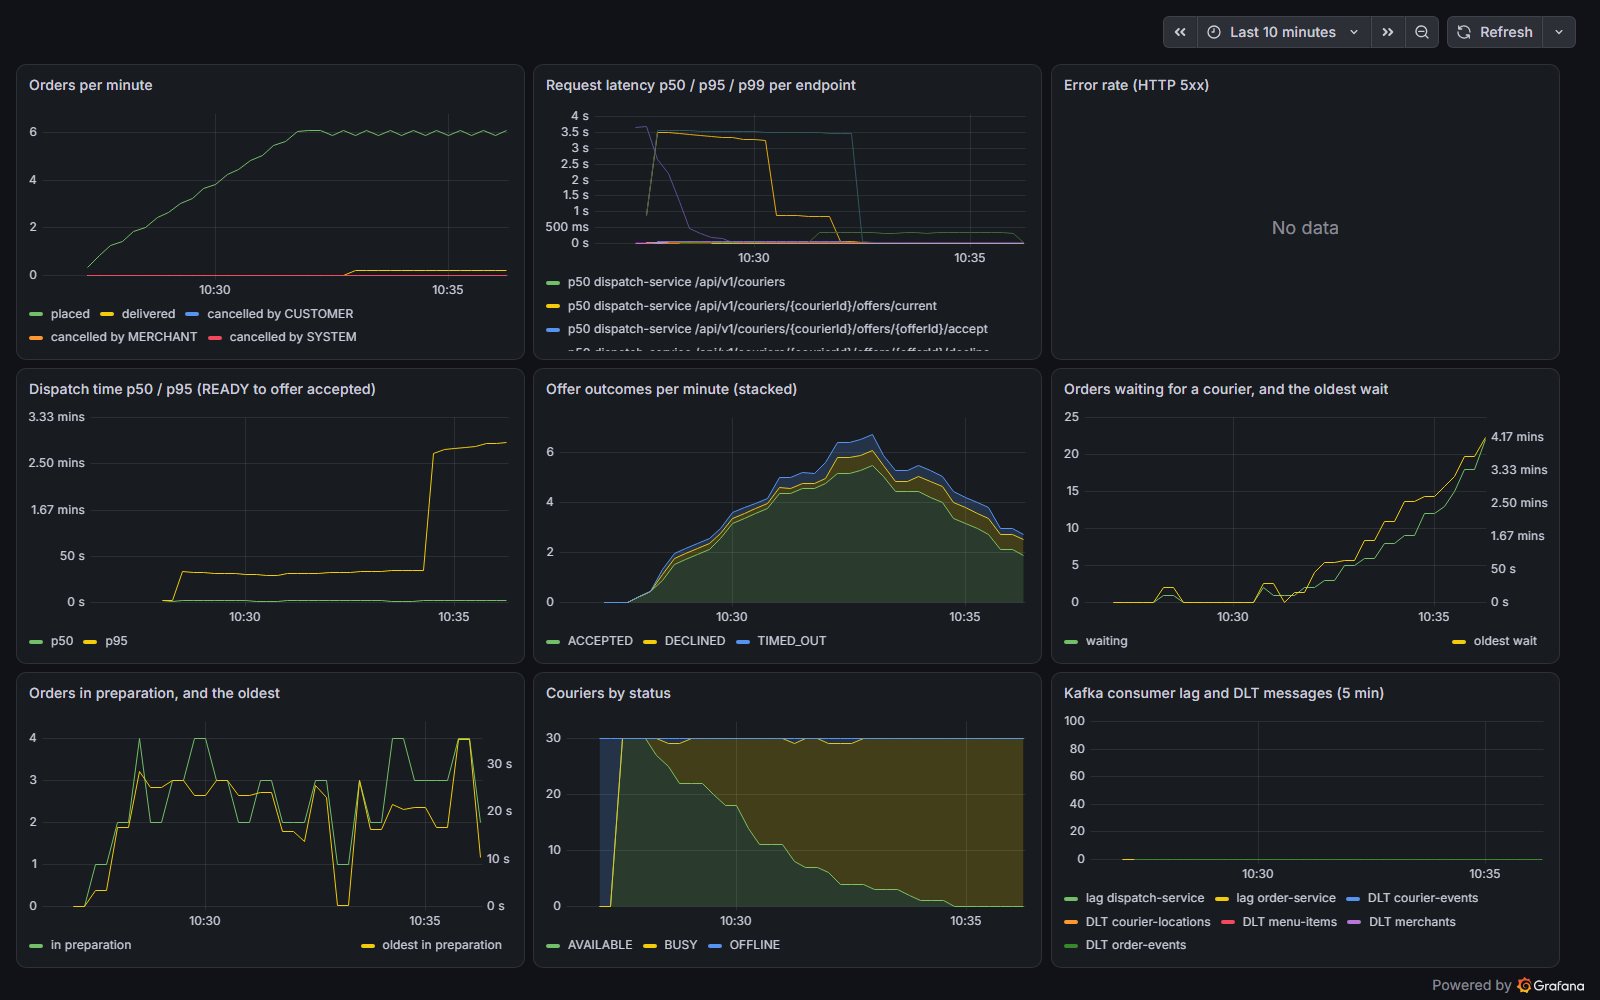
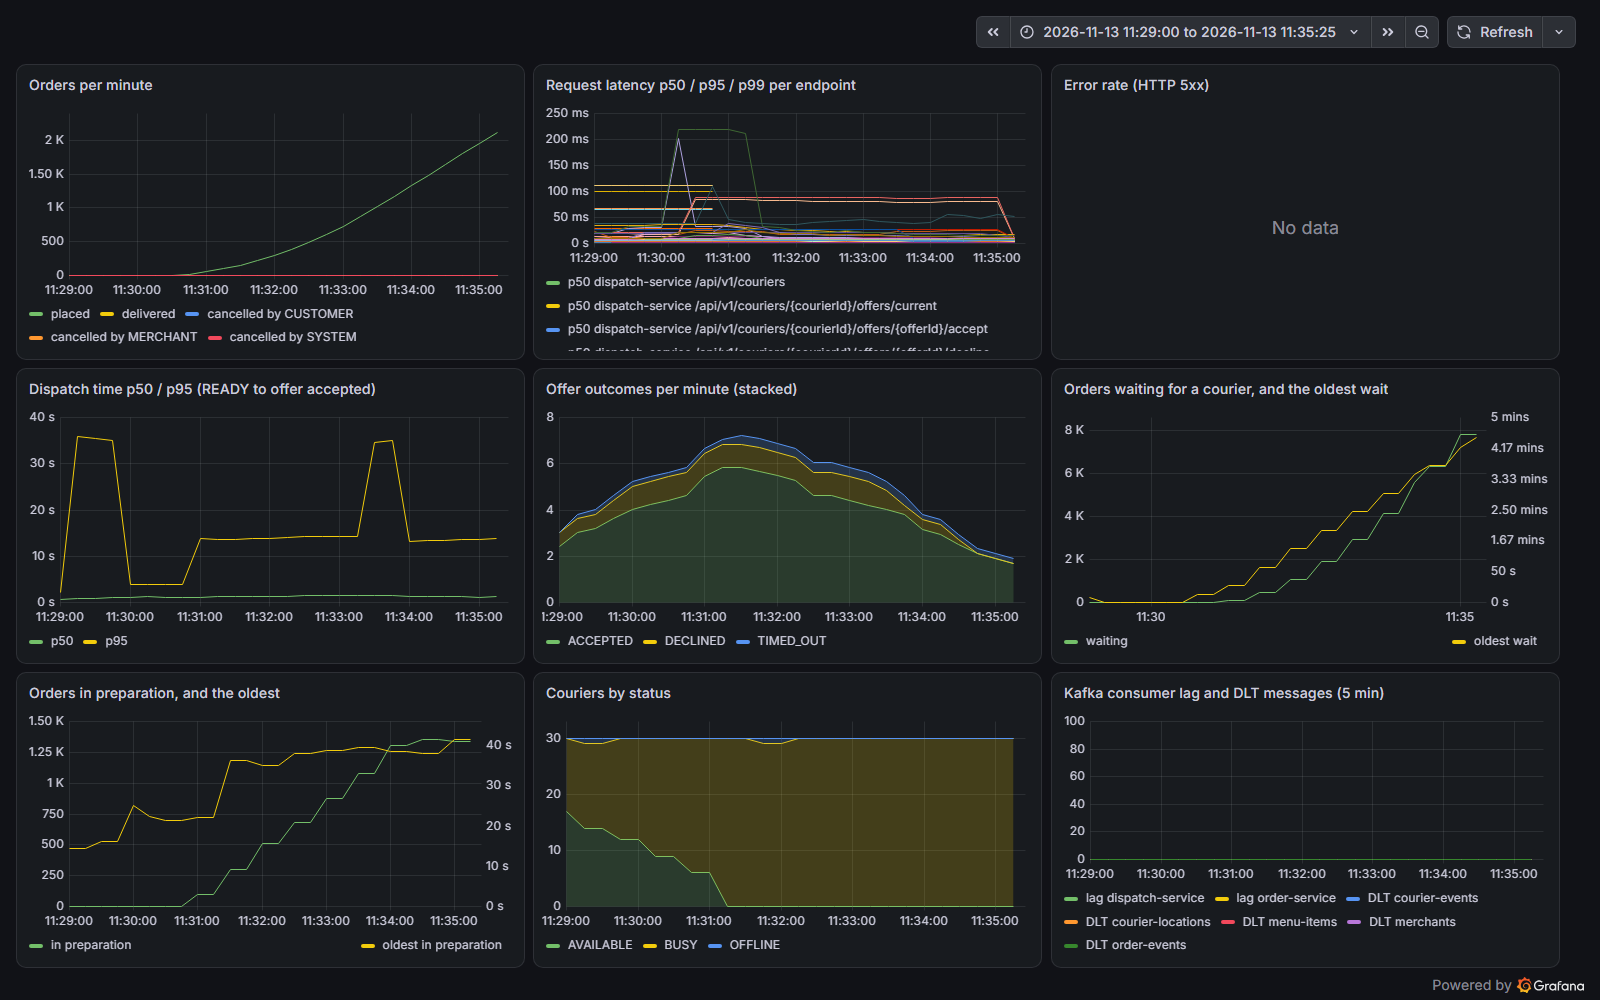
Shorten the Dropoff description and recapture its dashboard under load
The description now matches the resume ("up to 50 orders per second") and
fits the length of the other entries.

The new picture frames a k6 run that placed 10,946 orders while ramping from
5 to 50 orders per second and holding 50 for two minutes, with no failed
requests and a p95 of 17.5 ms. The old one showed only the demo bots' few
orders a minute.

diff --git a/lib/content/projects.ts b/lib/content/projects.ts
@@ -14,7 +14,7 @@ export const isVideo = (url: string) => url.endsWith(".mp4");
 export const projects: Project[] = [
   {
     title: "Dropoff",
-    description: "Food-delivery backend of three Spring Boot services that trade Kafka events, handling 50 orders per second without losing an event across forced crashes.",
+    description: "Food-delivery backend of three Spring Boot services that trade Kafka events, handling up to 50 orders per second.",
     images: ["/Dropoff.png"],
     tech: ["Java", "Spring Boot", "Kafka", "PostgreSQL", "Redis", "Docker"],
     github: "https://github.com/Danie1Le/Dropoff",
